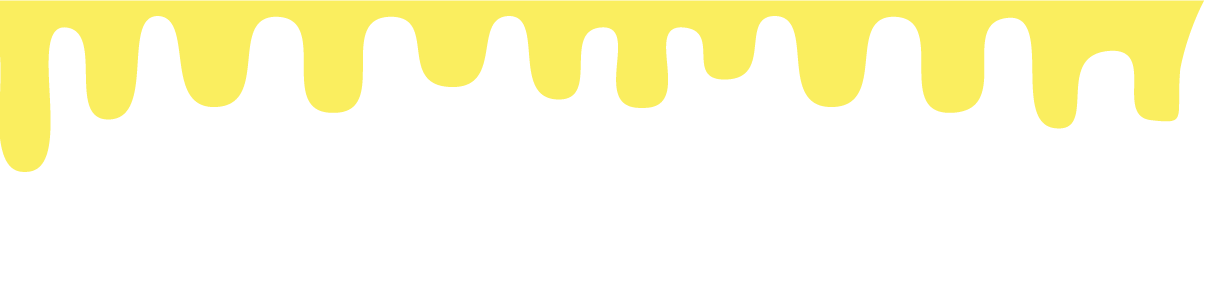
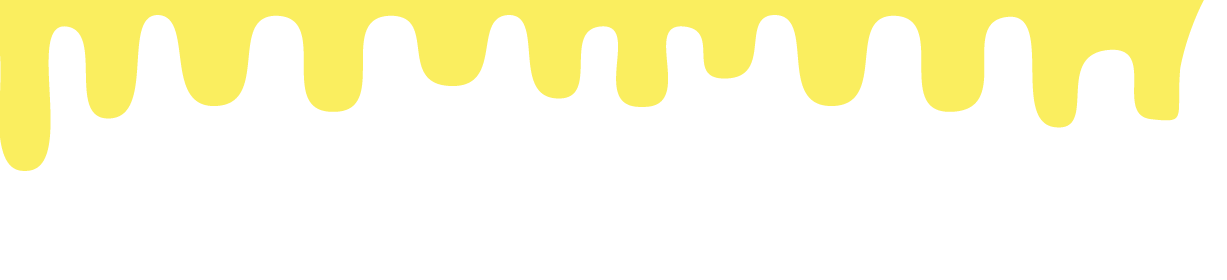
booldook

diff --git a/public/js/main2.js b/public/js/main2.js
@@ -1,0 +1,178 @@
+
+/*****Products *****/
+
+//쓸데없는 작업
+
+
+var Ajax = (function(){
+	function Ajax(_file) {
+		this.file = _file;
+		this.data = {};
+	}
+	Ajax.prototype.addData = function(_data) {
+		this.data = _data;
+	}
+	Ajax.prototype.send = function(_fn) {
+		$.ajax({
+			url: this.file,
+			type: "get",
+			dataType: "json",
+			data: this.data,
+			success: _fn,
+			error: function (xhr, status, error) {
+				alert("통신이 원할하지 않습니다.\n잠시 후 다시 시도해 주세요.");
+				console.log(xhr, status, error);
+			}
+		});
+	}
+	return Ajax;
+}());
+
+
+var prdNum = 0;
+// { "result":[{"title":"best","data":[{},{}]},{},{}]} 이런구조로 만듦
+var prds = new Ajax("json/prds.json");
+prds.send(resultFn);
+function resultFn(data){
+	var html = '';
+	var li;
+	for(var i=0; i<data.result.length; i++){
+		html = '<ul class="prd_wrap clear">';
+		for(var j=0; j<data.result[i].data.length; j++){
+			li = data.result[i].data[j];
+			html += '<li class="prd">';
+			html += '<div class="prd_img">';
+			html += '<img src="'+li.img[0]+'" class="img">';
+			html += '</div>';
+			html += '<div class="prd_tit">'+li.title+'</div>';
+			html += '<div class="prd_cate">'+li.cate+'</div>';
+			// html += '<div class="prd_price">';
+			// html += '<span>'+li.price[0]+'</span>';
+			// html += '<span>'+li.price[1]+'</span>';
+			// html += '</div>';
+			html += '<div class="prd_hover">';
+			html += '<div class="prd_img">';
+			html += '<img src="'+li.img[1]+'" class="img prd_hover_img">';
+			html += '</div>';
+			html += '<ul>';
+			html += '<li class="prd_compare">';
+			html += '<div>';
+			html += '</div>';
+			html += '</li>';
+			html += '<li class="prd_tit">'+li.title+'</li>';
+			html += '<li class="prd_cate">'+li.cate+'</li>';
+			// html += '<li class="prd_price">';
+			// html += '<span>'+li.price[0]+'</span>';
+			// html += '<span>'+li.price[1]+'</span>';
+			// html += '</li>';
+			html += '<li class="prd_cont">';
+			html += li.cont;
+			html += '<div><i class="fa fa-ellipsis-h"></i></div>';
+			html += '</li>';
+			html += '<li class="prd_detail">';
+			html += '<div>';
+			html += '<a href="#" data-toggle="tooltip" data-placement="top" title="Wishlist">';
+			html += '</a>';
+			html += '</div>';
+			if(li.target == "") html += '<ul onclick="linkFn(this);" data-link="'+li.link+'">';
+			else html += '<ul onclick="modalFn(this);" data-link="'+li.link+'">';
+			html += '<li>VIEW MORE</li>';
+			html += '<li><i class="fa fa-arrows-alt"></i></li>';
+			html += '</ul>';
+			html += '<div>';
+			html += '<a href="#" data-toggle="tooltip" data-placement="top" title="View">';
+			html += '</a>';
+			html += '</div>';
+			html += '</li>';
+			html += '</ul>';
+			html += '</div>';
+			// if(li.pct > 0)html += '<div class="prd_pop">-'+li.pct+'%</div>';
+			html += '</li> ';
+		}
+		html += '</ul>	';
+		$(".prd_out_wrap").append(html);
+	}
+		//생성완료된 후 이벤트 처리
+		$(".prd_nav > li").click(function(){
+			$(".prd_wrap").eq(prdNum).stop().animate({"top":"5rem", "opacity":0}, 500, function(){
+				$(this).css({"display":"none"});	
+			});
+			prdNum = $(this).index();
+			$(".prd_wrap").eq(prdNum).css({"display":"block"}).stop().animate({"top":0, "opacity":1}, 500);
+			$(".prd_nav > li").css({"color":"#666"});
+			$(".prd_nav div").css({"width":0});
+			$(this).css({"color":"#222"});
+			$(this).children("div").css({"width":"100%"});
+		});
+		$(".prd_nav > li").hover(function(){
+			if($(this).index() != prdNum) {
+				$(this).css({"color":"#222"});
+				$(this).children("div").stop().animate({"width":"100%"}, 100);
+			}
+		},function(){
+			if($(this).index() != prdNum) {
+				$(this).css({"color":"#666"});
+				$(this).children("div").stop().animate({"width":0}, 100);
+			}
+		});
+		$(".prd_nav > li").eq(0).trigger("click");
+		
+		$(".prd").hover(function(){
+			$(this).children(".prd_hover").stop().fadeIn(300);
+			$(this).find(".prd_compare").find("div").stop().animate({"top":"25px"}, 300);	
+			if($(this).find(".prd_cont")[0].offsetHeight < $(this).find(".prd_cont")[0].scrollHeight) {
+				console.log("overflow");
+				$(this).find(".prd_cont").children("div").stop().animate({"bottom":0}, 200);
+				$(this).find(".prd_cont").children("div").click(function(){
+					$(this).parent().css({"height":"auto"});
+					$(this).hide(0);
+				});
+			}
+			$(this).find(".prd_detail").children("ul").hover(function(){
+				$(this).children(":first-child").stop().animate({"margin-top":"-38px"}, 200);
+			}, function(){
+				$(this).children(":first-child").stop().animate({"margin-top":0}, 200);
+			});
+		}, function(){
+			$(this).children(".prd_hover").stop().fadeOut(300);
+			$(this).find(".prd_compare").find("div").stop().animate({"top":0}, 300);
+			if($(this).find(".prd_cont")[0].offsetHeight < $(this).find(".prd_cont")[0].scrollHeight) {
+				$(this).find(".prd_cont").children("div").stop().animate({"bottom":"-20px"}, 200);
+			}
+		});
+		$(".prd_hover_img").hover(function(){
+			$(this).stop().animate({"opacity":1}, 200).css({"animation-name":"prdImg"});
+		}, function(){
+			$(this).stop().animate({"opacity":0}, 200).css({"animation-name":"prdImgBack"});
+		});
+		$('[data-toggle="tooltip"]').tooltip(); 
+	}
+
+//drop paint
+$(".drop").hover(function(){
+    $(this).find(".drop2").stop().slideDown(1000);
+},
+function(){
+    $(this).find(".drop2").stop().slideUp(1000);
+});
+
+//project
+function linkFn(obj) {
+	var linkAddr = $(obj).data("link");
+	console.log(linkAddr);
+	window.open(linkAddr);
+}
+
+$(".modal_close").click(function(){
+	$(".modal").hide();
+});
+
+
+function modalFn(obj) {
+	console.log(obj);
+	var id = $(obj).data("link");
+	var cont = $(id).clone().css({"display":"block"});
+	$(".modal_content").html(cont);
+	$(".modal").css({"display":"table"});
+	$(".modal_body").css({"animation-name":"modalOpen"});
+}

diff --git a/public/index2.html b/public/index2.html
@@ -10,7 +10,7 @@
     <link rel="stylesheet" href="https://www.w3schools.com/w3css/4/w3.css">
     <link rel="stylesheet" href="https://maxcdn.bootstrapcdn.com/bootstrap/3.3.7/css/bootstrap.min.css">
     <link href="https://fonts.googleapis.com/css?family=Nanum+Gothic" rel="stylesheet">
-    <link href="css/main.css" type="text/css" rel="stylesheet">
+    <link href="css/main2.css" type="text/css" rel="stylesheet">
     <!--
     <script src="/__/firebase/5.6.0/firebase-app.js"></script>
     <script src="/__/firebase/5.6.0/firebase-auth.js"></script>
@@ -27,33 +27,31 @@
 
 <body>
     
-    
+    <header class="w abs">
+        <ul class="le">
+            <li><a href="#" class="nav"data-now="0">HELLO</a></li>
+            <li><a href="#" class="nav"data-now="2">ABOUT ME</a></li>
+            <li><a href="#" class="nav"data-now="5">PROJECT</a></li>
+        </ul>
+    </header>
 
     <section>
         <div class="hello page">
-            <div class="he_main cl">
-                
-                <!-- <div class="grafic_back">
-                    <img src="images/hello/c1.png" class="c1 abs">
-                    <img src="images/hello/c2.png" class="c2 abs">
-                    <img src="images/hello/c3.png" class="c3 abs">
-                    <img src="images/hello/c4.png" class="c4 abs">
-                    <img src="images/hello/c5.png" class="c5 abs">
-                    <img src="images/hello/c6.png" class="c6 abs">
-                </div> -->
-                <div class="he_main_ban">
+            <div class="he_main cl rel">
+                <div class="he_main_txt abs">
+                    <img src="images/img/hello_txt.png" class="he_txt1">
+                    <img src="images/hello/hello_txt.png" class="he_txt2">
+                </div>
+                <div class="rel grafic_back ri">
+                <img src="images/hello/c1.png" class="c1 abs">
+                <img src="images/hello/c2.png" class="c2 abs">
+                <img src="images/hello/c3.png" class="c3 abs">
+                <img src="images/hello/c4.png" class="c4 abs">
+                <img src="images/hello/c5.png" class="c5 abs">
+                <img src="images/hello/c6.png" class="c6 abs">
+                </div>
+                <div class="he_main_ban abs">
                     <img src="images/hello/main.png">
-                    <div class="he_main_txt">
-                        <img src="images/img/hello_txt.png" class="he_txt1">
-                        <img src="images/hello/hello_txt.png" class="he_txt2">
-                    </div>
-                    <header class="hello_nav">
-                        <ul>
-                            <li><a href="#" class="nav"data-now="0">HELLO</a></li>
-                            <li><a href="#" class="nav"data-now="2">ABOUT ME</a></li>
-                            <li><a href="#" class="nav"data-now="5">PROJECT</a></li>
-                        </ul>
-                    </header>
                 </div>
             </div>
         </div>
@@ -254,7 +252,7 @@
     </div>
     <footer></footer>
     <script defer src="https://www.gstatic.com/firebasejs/5.6.0/firebase.js"></script>
-    <script src="js/main.js"></script>
+    <script src="js/main2.js"></script>
     <!-- <script src="js/WheelScroll.js"></script>
     <script src="js/wheel.js"></script> -->
 </body>

diff --git a/public/css/main2.css b/public/css/main2.css
@@ -1,5 +1,4 @@
 html,body,h1,h2,h3,h4,h5,p,ul,li,div,a,span,img{margin: 0; padding: 0; font-family: 'Nanum Gothic', sans-serif;border: 0;box-sizing: border-box;}
-html, body {height:100%;}
 h1,h2,h3,h4,h5,p{color: #ebebeb;}
 li{list-style: none;}
 a{text-decoration: none;}
@@ -8,7 +7,6 @@ a{text-decoration: none;}
 .le{float: left;}
 .ri{float: right;}
 .cl{clear: both;}
-.cl:after {clear: both; content:""; display:block;}
 .rel{position: relative;}
 .abs{position: absolute;}
 
@@ -16,29 +14,21 @@ a{text-decoration: none;}
 .modal1{width: 100%; height: 100%;background-color: rgba(0,0,0,0.7);}
 .modal1 img{top: 50%; left: 50%;transform: translate(-50%,-50%);}
 
-header {width:60%; z-index: 9999; position:absolute; text-align:center; top:20%; left:-60%;}
+header{ width:15.625% ;z-index: 9999;left: 15%;top:15%;}
 header ul{} 
-header ul li{padding:1vh;} 
-header ul li a{color: #5e5e5e; font-size:2vw;}
+header ul li{height:8rem;} 
+header ul li a{color: #5e5e5e;font-size: 26px;}
 header ul li:nth-child(1) a:hover{color:#ef464f;}
 header ul li:nth-child(2) a:hover{color:#a03db1;}
 header ul li:nth-child(3) a:hover{color:#223770;}
 section{width: 100%; height:100%;}
 
-.hello {width:100%; position:relative;}
-.he_main_ban {width:60%; float:right; position:relative;}
-.he_main_ban > img {width:100%;}
-
-.he_main_txt {position:absolute; width:40%; bottom:0; text-align:right; left:-40%;}
-.he_txt1 {width:100%;}
-.he_txt2 {display: none;}
-
-/* .hello{width: 100%; height:960px;}
+.hello{width: 100%; height:960px;}
 .he_main{width: 100%; height: 100%;}
 .he_main_txt{left: 14%;bottom: 3%;}
 .he_txt2{display: none;}
 .he_main_ban{right: 0;top: 0; width: 62.5%;height: 960px;overflow: hidden;}
-.he_main_ban img{width: 100%;} */
+.he_main_ban img{width: 100%;}
 
  .grafic_back{width: 62.5%; height: 960px;z-index: 99;}/*transform:translate(-50%, -50%) */
 .c1{top: 30%;left:26%;transform:translate(30%, 26%);z-index: 10;width: 200px;opacity: 1; animation:rotation120 4s infinite linear; }
@@ -68,9 +58,9 @@ height: 100%;width: 100%;}
 .txt_box > :last-child {width:50%; float:right;}
 .txt_box > :last-child img{width: 90%;margin: 1.2rem;}
 .drop{}
-.drop1{width: 62.6%;/*1180px*/top:0; left: 0;}
+.drop1{width: 61.61458333333333%;/*1180px*/top: -0.1%; left: 0;}
 .drop1 img{width: 102%;}
-.drop2{width:62.6%;top:0; left: 0;display: none;}
+.drop2{width:61.61458333333333%;top: -0.1%; left: 0;display: none;}
 .drop2 img{width: 102%;}
 
 
@@ -275,8 +265,9 @@ background-size: cover;}
 }
 
 @media screen and (max-width:480px) {
+  body,html{width: 100%;height: 100%;margin: 0 auto;}
    header{display:none;}
-   .hello{width: 100%;}
+   .hello{width: 100%; height:397px;}
     .he_main{width: 100%; height: 100%;float: none;}
     .he_main_txt{top: 50%;
         left: 50%;
